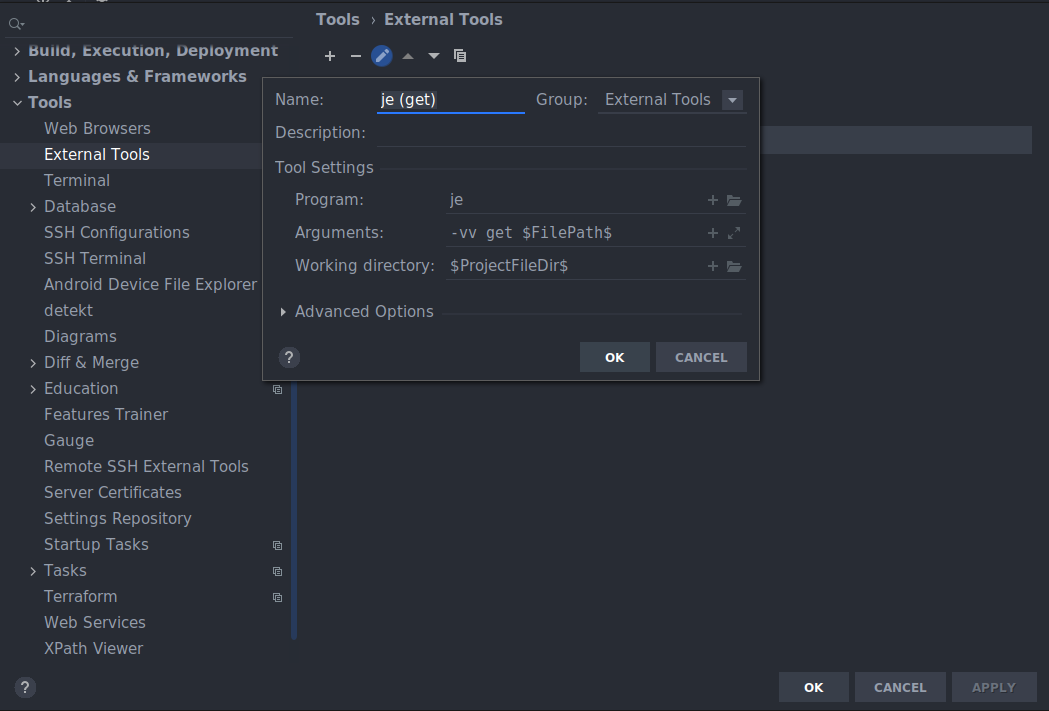
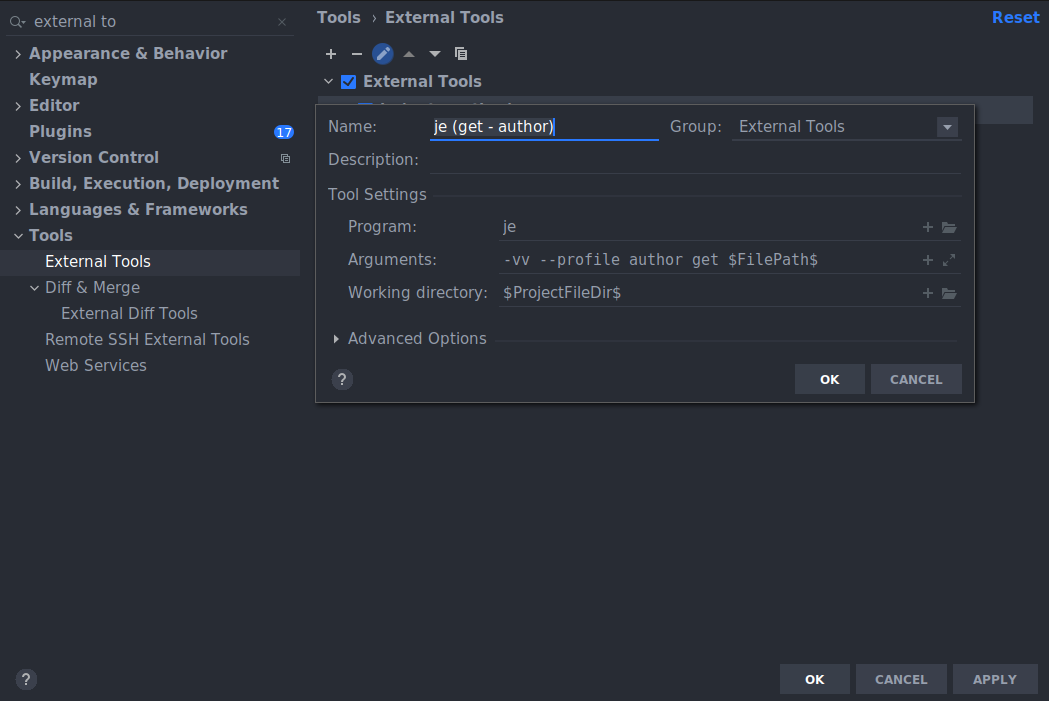
Update readme

diff --git a/README.md b/README.md
@@ -42,17 +42,20 @@ Small utility for uploading/downloading content to/from running AEM instance.
 
 ```bash
 ❯ je
-je 0.1.0
+je 0.2.0
 Jcr Exchange - easy download and upload files to and from JCR
 
 USAGE:
-    je [FLAGS] <SUBCOMMAND>
+    je [FLAGS] [OPTIONS] <SUBCOMMAND>
 
 FLAGS:
     -d, --debug      If enabled, deployed to AEM packages are left intact (are not deleted) to allow investigation
     -h, --help       Prints help information
     -V, --version    Prints version information
     -v, --verbose    Enables logs: -v - enables INFO log level -vv - enables DEBUG log level
+
+OPTIONS:
+    -p, --profile <profile>    Profile selection
 
 SUBCOMMANDS:
     get     Downloads content to local file system
@@ -86,20 +89,24 @@ one:
 ❯ cat .je
 ignore_properties = []
 
-[instance]
+[[profile]]
+name = "author"
 addr = "http://localhost:4502"
 user = "admin"
 pass = "admin"
 ```
 ### Customize
-`ignore_properties` - tell `je` which properties of `.content.xml` should be removed after
-downloading the content
+- general:
+  - `ignore_properties` - tell `je` which properties of `.content.xml` should be removed after
+downloading the content; it uses `contains` method to match lines to be removed
 
-`addr` - address of the instance, including port if domain is not available
+- profile section - you can add multiple profiles, each with settings:
+  - `name` - name of the profile, later it can be used with `--profile` option to specify which instance is the target; if not specified, the first profile from the config is used
+  - `addr` - address of the instance, including port if domain is not available
+  - `user` - user used to authenticate to AEM instance
+  - `pass` - password used to authenticate to AEM instance
 
-`user` - user used to authenticate to AEM instance
 
-`pass` - password used to authenticate to AEM instance
 
 ### IntelliJ Setup
 
@@ -119,12 +126,11 @@ Similarly add and configure `je put` command:
 ##### Notes
 - if you don't have `je` in PATH, you can set full path in `Program` input
 - `Arguments` input:
-  - `-vv` - sets verbose level, `-vv` means DEBUG log level, `-v` means INFO log level, you can omit
-    this option if you don't need logs
-  - you can add `-d` to set debug mode in which temporary packages uploaded to AEM won't be deleted
-    to allow validation during debugging
-  - for more options run `je` in command line
-  - subcommand (put or get)
+  - `-vv` - sets verbose level, `-vv` means DEBUG log level, `-v` means INFO log level; it's optional
+  - `--profile` - sets target profile; if not provided, first profile from config will be used
+  - `-d` - sets debug mode in which temporary packages uploaded to AEM won't be deleted
+    to allow validation during debugging; it's optional
+  - subcommand (`put` or `get`)
   - `$FilePath$` - IntelliJ variable which will be substituted during command execution, its absolute
     path to a file on which command is executed
 - `Working directory` input:
